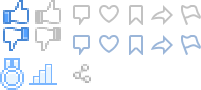
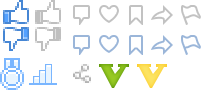
移动版bug修复

Changed region(s): [[0.4776, 0.7111, 0.8358, 0.9778]]

diff --git a/static/js/mobile/mobile.css b/static/js/mobile/mobile.css
@@ -86,18 +86,22 @@ nav ul li a span{margin-left: 10px;}
 .aw-top-nav-profile li a{padding-left: 10px;}
 .aw-top-nav-profile li .badge-info{margin-left: 10px;}
 .aw-top-nav-notic{left: 0;top: 84px;width: 100%;}
+.aw-top-nav-notic .badge{position: absolute;right: 15px;top:1px;}
 .aw-top-nav-notic-wrap{max-height: 322px;overflow-y: scroll;overflow-x:hidden;background: #fff;}
 .aw-top-nav-notic li{float: none;width: auto;height:auto;padding:10px 0 10px 10px;overflow:visible;background: #FFFFFF;}
 .aw-top-nav-notic li:hover{background: #E4E4E4;}
 .aw-top-nav-notic li a{display: inline;width: auto;line-height:22px;background: none;color: #0088CC;}
 .aw-top-nav-notic li a:hover{background: none;}
+.aw-top-nav-notic li p{margin:0;}
 
 /* 发起页面 */
 .aw-mod-publish .aw-mod-body{margin-bottom:10px;border-bottom: 1px solid #eee;}
 .aw-mod-publish textarea{width: 95%;}
 .aw-mod-publish .aw-topic-box-selector .btn{margin:0 0 10px 10px;}
+.aw-mod-publish .aw-anonymity input{margin-right: 5px;}
 .aw-publish-title .aw-publish-dropdown{position: relative;}
-.aw-publish-title input{border-radius: 4px 0 0 4px;border-right: none;}
+.aw-publish-title input{width:180px;border-radius: 4px 0 0 4px;border-right: none;}
+.aw-publish-title input.active{width:285px;border:1px solid #CCCCCC;border-radius: 4px;}
 .aw-publish-title.open .dropdown-menu{display: block;}
 .aw-publish-title .aw-publish-dropdown p{margin: 0;height: 28px;line-height: 28px;border: 1px solid #C1CAD4;box-shadow: 0 2px 1px #F3F3F3 inset;cursor: pointer;border-radius: 0 4px 4px 0;}
 .aw-publish-title .aw-publish-dropdown span{display: inline-block;padding:0 12px;}
@@ -201,7 +205,7 @@ nav ul li a span{margin-left: 10px;}
 .aw-question-content .aw-question-contribute a{margin-left: 5px;}
 .aw-question-content .aw-topic-name{height: 20px;line-height: 20px;font-size: 14px;font-weight: normal;}
 .aw-topic-tags{margin:10px 0;padding:10px 0;border-bottom: 1px solid #EEEEEE;}
-.aw-topic-tags ul li{float: left;margin:0 10px 10px 0;}
+.aw-topic-tags ul li{float: left;margin:0 4px 10px 0;}
 .aw-topic-tags ul li a{display:block;padding:0 10px;border:1px solid #DAECF5;border-radius: 30px;text-decoration: none;}
 .aw-topic-tags ul li a:hover, .aw-topic-tags ul li.active a{background: #225599;border-color:#225599;color: #fff;}
 
@@ -227,7 +231,7 @@ nav ul li a span{margin-left: 10px;}
 .aw-people-page .aw-people-detail .aw-mod-body img{position: absolute;left: 0;top: 10px;width: 50px;height: 50px;}
 .aw-people-page .aw-people-detail .aw-mod-footer{margin-bottom: 10px;}
 .aw-people-page .aw-people-detail .aw-mod-footer em{font-style: normal;}
-.aw-people-page .aw-people-detail .aw-mod-footer span{margin-right: 10px;}
+.aw-people-page .aw-people-detail .aw-mod-footer span{margin-right: 12px;}
 .aw-people-page .aw-people-detail h2{padding: 0 10px !important;}
 .aw-people-page .aw-people-topic .aw-mod-body{padding-bottom: 0px;}
 .aw-people-page .aw-people-topic .aw-mod-body ul li, .aw-people-page .aw-people-follow .aw-mod-body ul li{float: left;margin:0 10px 10px 0;}
@@ -355,10 +359,12 @@ nav ul li a span{margin-left: 10px;}
 .aw-icon.disagree.active{background-position: -1px -13px;}
 .aw-icon.comment{width:13px;height:11px;background-position: -36px -2px;}
 .aw-icon.thanks{width: 14px;height: 12px;background-position: -48px -0;}
-.aw-icon.thanks.active{background-position: -48px -16px;}
+.aw-icon.thanks.active{background-position: -48px -15px;}
 .aw-icon.flag{width: 13px;height: 10px;background-position: -90px -2px;}
 .aw-icon.prestige{width: 12px;height: 16px;background-position:  0 -29px;vertical-align: -3px;}
 .aw-icon.point{width: 14px;height: 11px;background-position: -14px -32px;vertical-align: -1px;}
+.aw-icon.i-v{width: 15px;height: 12px;background-position: -49px -32px;}
+.aw-icon.i-v.i-ve{background-position: -68px -32px;}
 
 /* 底部 */
 footer{margin-top:20px;font-size: 12px;text-align: center;}

diff --git a/views/default/m/question.tpl.htm b/views/default/m/question.tpl.htm
@@ -154,7 +154,9 @@
 					
 					<h3>
 						<a class="avatar pull-right" href="<?php if ($val['anonymous']) { ?>javascript:;<?php } else { ?>m/people/<?php echo $val['uid']; ?><?php } ?>"><img src="<?php if ($val['anonymous']) { ?><?php echo G_STATIC_URL; ?>/common/avatar-mid-img.jpg<?php } else { ?><?php echo get_avatar_url($val['uid'], 'mid'); ?><?php } ?>" alt="" /></a>
-						<a href="<?php if ($val['anonymous']) { ?>javascript:;<?php } else { ?>m/people/<?php echo $val['uid']; ?><?php } ?>"><?php if ($val['anonymous']) { ?><?php _e('匿名用户'); ?><?php } else { ?><?php echo $val['user_name']; ?><?php } ?></a><?php if (!$val['anonymous']) { ?><strong><?php echo $val['signature']; ?></strong><?php } ?>
+						<a href="<?php if ($val['anonymous']) { ?>javascript:;<?php } else { ?>m/people/<?php echo $val['uid']; ?><?php } ?>"><?php if ($val['anonymous']) { ?><?php _e('匿名用户'); ?><?php } else { ?><?php echo $val['user_name']; ?><?php } ?></a><?php if (!$val['anonymous']) { ?>
+						<?php if ($val['verified']) { ?> <i class="aw-icon i-v<?php if ($val['verified'] == 'enterprise') { ?> i-ve<?php } ?>" title="<?php if ($this->user['verified'] == 'enterprise') { ?>个人认证<?php } else { ?>企业认证<?php } ?>"></i><?php } ?>
+						<strong><?php echo $val['signature']; ?></strong><?php } ?>
 					</h3>
 					<div class="aw-vote-info<?php if (sizeof($val['agree_users']) == 0) { ?> hide<?php } ?>">
 						<?php _e('赞同来自'); ?>:

diff --git a/views/default/m/people.tpl.htm b/views/default/m/people.tpl.htm
@@ -11,6 +11,7 @@
 		<div class="aw-mod-body">
 			<img src="<?php echo get_avatar_url($this->user['uid'], 'max'); ?>" alt="" />
 			<?php echo $this->user['user_name']; ?>
+			<?php if ($this->user['verified']) { ?><i class="aw-icon i-v<?php if ($this->user['verified'] == 'enterprise') { ?> i-ve<?php } ?>" title="<?php if ($this->user['verified'] == 'enterprise') { ?>企业认证<?php } else { ?>个人认证<?php } ?>"></i><?php } ?>
 			<?php if ($this->user['signature']) { ?>
 			<div>
 				<span class="num"><?php echo $this->user['signature']; ?></span>
